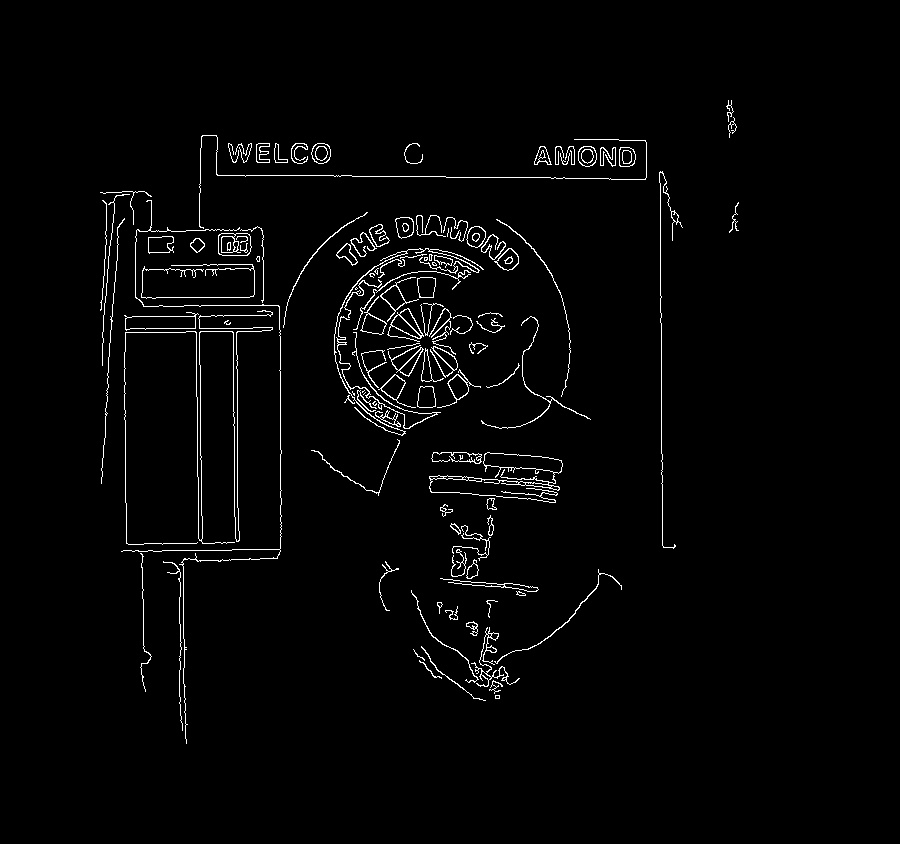
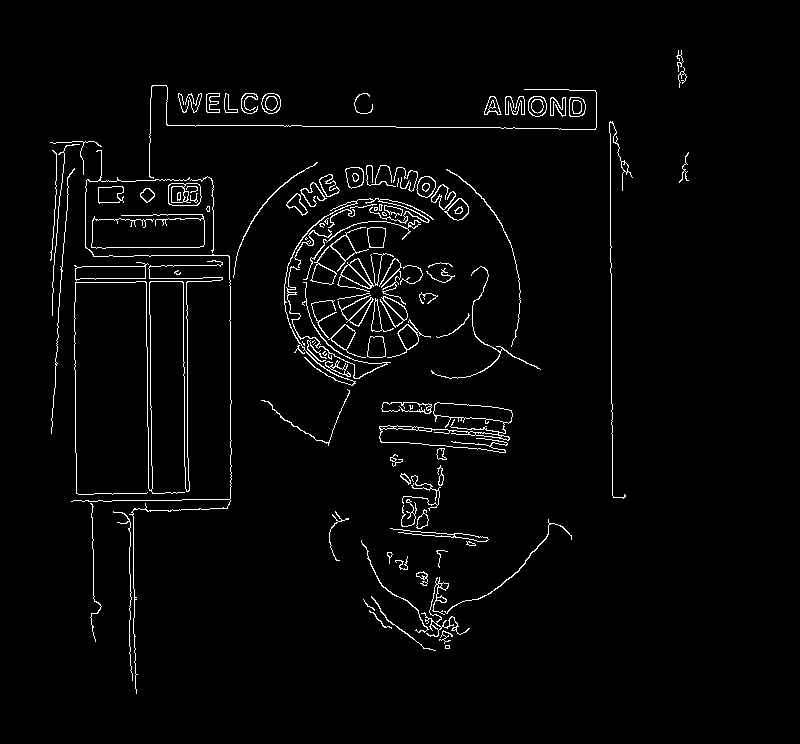
gahhhhh

diff --git a/dart_hough.cpp b/dart_hough.cpp
@@ -25,7 +25,8 @@ Mat cannify_image( Mat frame );
 Mat line_transform( Mat frame );
 int*** circle_transform( Mat frame );
 vector<Rect> hough_combine( Mat lines, int*** circles, vector<Rect> boards);
-Mat plot_shapes( Mat img , Mat line_space);
+void draw_lines( Mat img ,  Mat lines );
+void plot_shapes( Mat img , vector<Rect> final_recs);
 
 
 /** Global variables */
@@ -35,7 +36,7 @@ CascadeClassifier cascade;
 /** @function main */
 int main( int argc, const char** argv ) {
 	// 1. Read Input Image
-	Mat frame0 = imread("images/dart7.jpg", CV_LOAD_IMAGE_COLOR);
+	Mat frame0 = imread("images/dart1.jpg", CV_LOAD_IMAGE_COLOR);
 	// 2. Load the Strong Classifier in a structure called `Cascade'
 	if( !cascade.load( cascade_name ) ){ printf("--(!)Error loading\n"); return -1; };
 	// 3. Blur and Canny edge detect the image
@@ -43,17 +44,18 @@ int main( int argc, const char** argv ) {
 	// 4. Perform line Hough Transform on image
 	Mat transformed = line_transform( edgemapped );
 	// 5. Perform circle Hough Transform on the image & threshold
-	int*** thresh_circ = circle_transform( edgemapped );
+	// int*** thresh_circ = circle_transform( edgemapped );
+	int*** thresh_circ;
 	// 6. Threshold the line space
 	Mat thresh;
 	threshold(transformed, thresh, 100, 255, THRESH_BINARY);
-
+	draw_lines(frame0, thresh);
 	// 7. Perform Viola Jones detection on images
-	//vector<Rect> dartboards = viola_jones_detection( frame0 );
+	vector<Rect> dartboards = viola_jones_detection( frame0 );
 	// 8. Combine result with Hough detected shapes
-	//vector<Rect> final_boards = hough_combine( transformed, circ_trans, dartboards);
+	vector<Rect> final_boards = hough_combine( thresh, thresh_circ, dartboards);
 	// 9. Plot final results on image
-
+	plot_shapes( frame0 , final_boards);
 }
 
 /** @function detectAndDisplay */
@@ -66,39 +68,79 @@ vector<Rect> viola_jones_detection( Mat frame ) {
 	equalizeHist( frame_gray, frame_gray );
 
 	// 2. Perform Viola-Jones Object Detection
-	// Vector of rectangles stored in 'dartboards'
 	cascade.detectMultiScale( frame_gray, dartboards, 1.1, 1, 0|CV_HAAR_SCALE_IMAGE, Size(50, 50), Size(500,500) );
-
-  // 3. Print number of Faces found
-	//std::cout << dartboards.size() << std::endl;
-
-  // 4. Draw box around faces found
-	// for( int i = 0; i < dartboards.size(); i++ )	{
-	// 	rectangle(frame, Point(dartboards[i].x, dartboards[i].y), Point(dartboards[i].x + dartboards[i].width, dartboards[i].y + dartboards[i].height), Scalar( 0, 255, 0 ), 2);
-	// }
 
 	return dartboards;
 }
 
 // Compare result of Viola Jones detection with Hough accumulators
 vector<Rect> hough_combine( Mat lines, int*** circles, vector<Rect> boards) {
-	vector<Rect> new_boards;
+	const float pi = 3.14159;
 	//Iterate through the boards
 	for( int i = 0; i < boards.size(); i++ )	{
 		//Find the centre of each board
 		int centre_x = (boards[i].x + boards[i].width)/2;
 		int centre_y = (boards[i].y + boards[i].height)/2;
-		//For each point in a 3*3 kernel at the centre
-		for( int x0 = centre_x-1; x0 <= centre_x+1; x0++ ) {
-			for( int y0 = centre_y-1; y0 <= centre_y+1; x0++ ) {
-				//Check to see if the pixel in the thresholded linespace has 5-10 spokes
-				//Check to see if the pixel in the thresholded circlespace has 3-7 concentric circles
-				//If yes to both add current rectangle to new_boards
+
+		// Check to see if the pixel in the thresholded linespace has 5-10 spokes
+		int spokes = 0;
+		for (int j = 0; j < 10; j++){
+			int theta = (j * 18) + 9;
+			float t = (theta * pi)/180;
+			int rho = (centre_x * cos(t)) + (centre_y * sin(t));
+      int intensity = (int)lines.at<uchar>(theta, rho);
+      if( intensity > 250) {
+				spokes++;
 			}
 		}
 
+		std::cout << spokes << std::endl;
+		// Check to see if the pixel in the thresholded circlespace has 3-7 concentric circles
+		// If yes to both add current rectangle to new_boards
+		if(!(spokes >= 3 && spokes <=10)) {
+			boards.erase(boards.begin() + i);
+		}
 	}
-	return new_boards;
+	return boards;
+}
+
+void draw_lines( Mat img ,  Mat lines ) {
+	const float pi = 3.14159;
+	for (int theta = 0; theta < lines.rows; theta++){
+		for (int rho = 0; rho < lines.cols; rho++){
+      int intensity = (int)lines.at<uchar>(theta, rho);
+      if( intensity > 250) {
+				float t = (theta * pi)/180;
+				//Draw lines
+				if((theta > 90 )){
+	        Point pt1(rho / cos(t), 0);
+	        Point pt2( (rho - img.rows * sin(t))/cos(t), img.rows);
+	        line(img, pt1, pt2, Scalar(255), 1);
+		    } else {
+	        Point pt1(0, rho / sin(t));
+	        Point pt2(img.cols, (rho - img.cols * cos(t))/sin(t));
+	        line(img, pt1, pt2, Scalar(255), 1);
+		    }
+
+			}
+		}
+	}
+	imwrite( "lines.jpg", img );
+}
+
+//Draw bounding boxes
+void plot_shapes( Mat frame , vector<Rect> final_recs) {
+
+	// Print number of Faces found
+	std::cout << final_recs.size() << std::endl;
+
+	//Draw rectangles
+	for( int i = 0; i < final_recs.size(); i++ )	{
+		rectangle(frame, Point(final_recs[i].x, final_recs[i].y), Point(final_recs[i].x + final_recs[i].width, final_recs[i].y + final_recs[i].height), Scalar( 0, 255, 0 ), 2);
+	}
+
+	//Save image
+	imwrite( "VJ_HT.jpg", frame );
 }
 
 //Prep the image for Hough Transform
@@ -122,7 +164,6 @@ Mat line_transform( Mat frame ) {
 
 	//Generate empty Hough Space
   int theta_max = 180;
-  //rho should be ~769
   int rho_max = round(sqrt(pow(frame_width, 2) + pow(frame_height, 2)));
   Mat hough_space = Mat::zeros(theta_max, rho_max, CV_8UC1);
 
@@ -151,14 +192,13 @@ Mat line_transform( Mat frame ) {
 
 //Perform circle hough transform on the edge image
 int*** circle_transform( Mat frame ) {
-  const float pi = 3.14159;
   int frame_height = frame.rows;
 	int frame_width = frame.cols;
 
 	//Generate empty circle space
   int x_dim = frame_height;
 	int y_dim = frame_width;
-	int r_dim = 100;
+	int r_dim = 50;
   int*** circle_space = malloc3dArray(x_dim, y_dim, r_dim);
 	for (int i = 0; i < x_dim; i++) {
 		for (int j = 0; j < y_dim; j++) {
@@ -221,26 +261,3 @@ int*** circle_transform( Mat frame ) {
 
 	return circle_space;
 }
-
-// //Plot the lines on the image
-// Mat plot_lines( Mat img , Mat line_space) {
-// 	//Iterate over the thresholded line space
-// 	for (int theta = 0; theta < line_space.rows; theta++){
-// 		for (int rho = 0; rho < line_space.cols; rho++){
-//       int intensity = (int)line_space.at<uchar>(theta, rho);
-//       if( intensity > 99) {
-// 				//Where it finds a bright pixel, convert polar to coordinates
-// 				float t = (theta * pi)/180;
-// 				//(X0, Y0) = (rho * cos(theta), rho * sin(theta))
-// 				int x0 = rho * cos(t);
-// 				int y0 = rho * sin(t);
-// 				//(dx, dy) = ( -sin(theta), cos(theta))
-// 				dx = -sin(t);
-// 				dy = cos(t);
-//
-// 			}
-// 		}
-// 	}
-//
-// 	return img;
-// }
